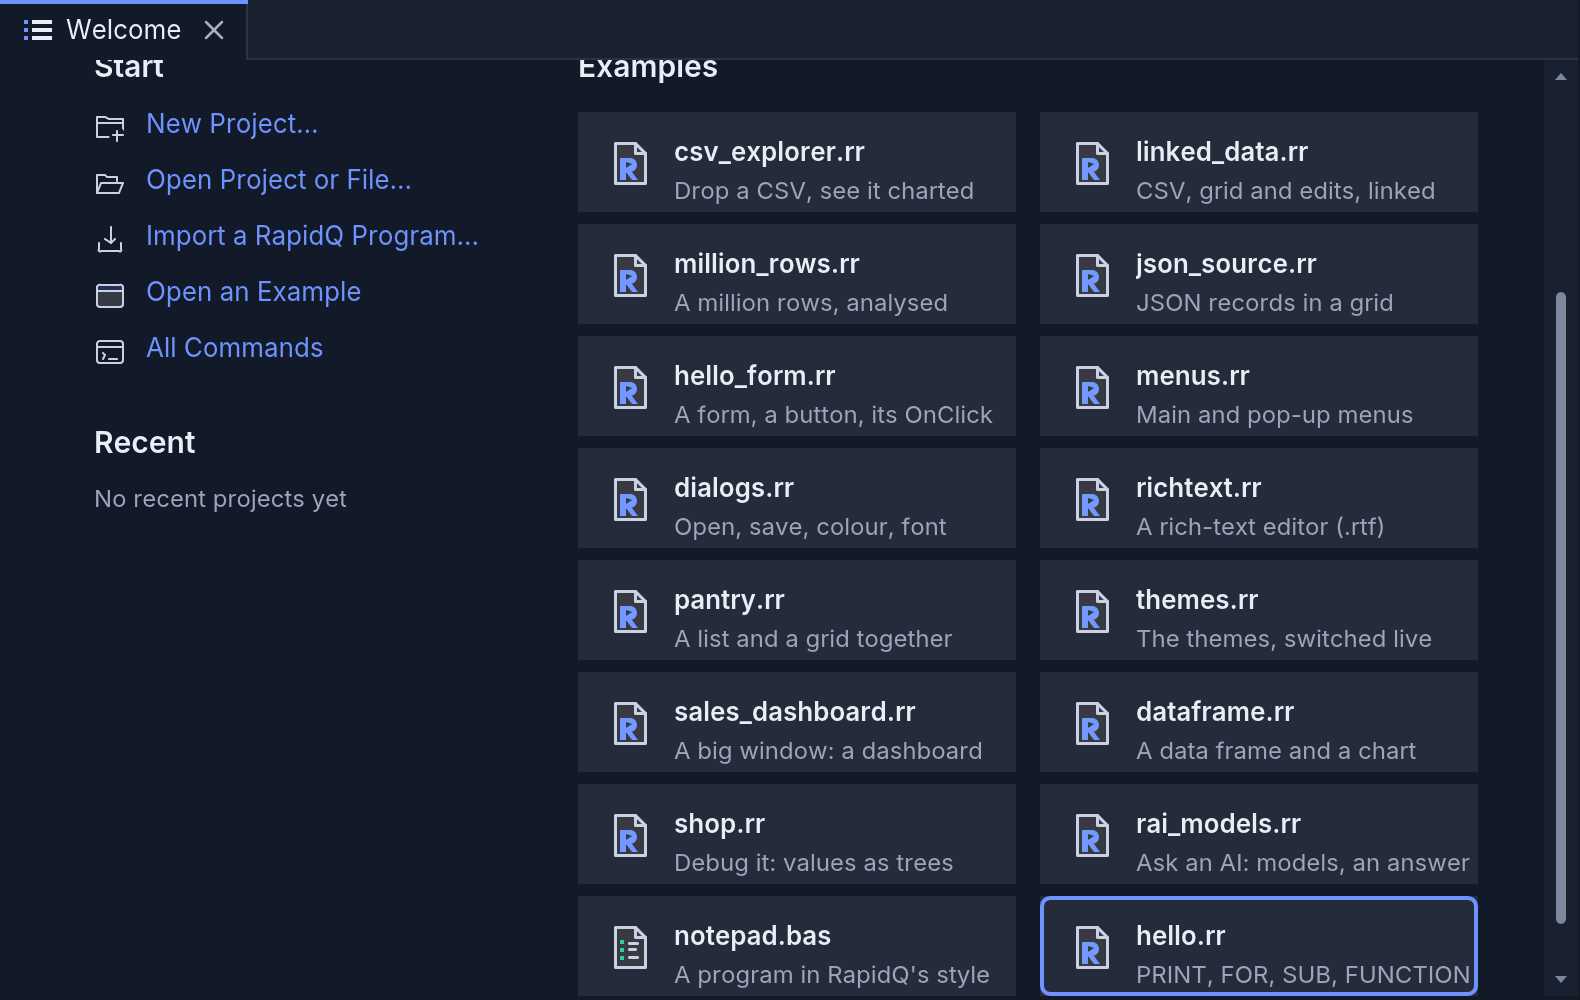
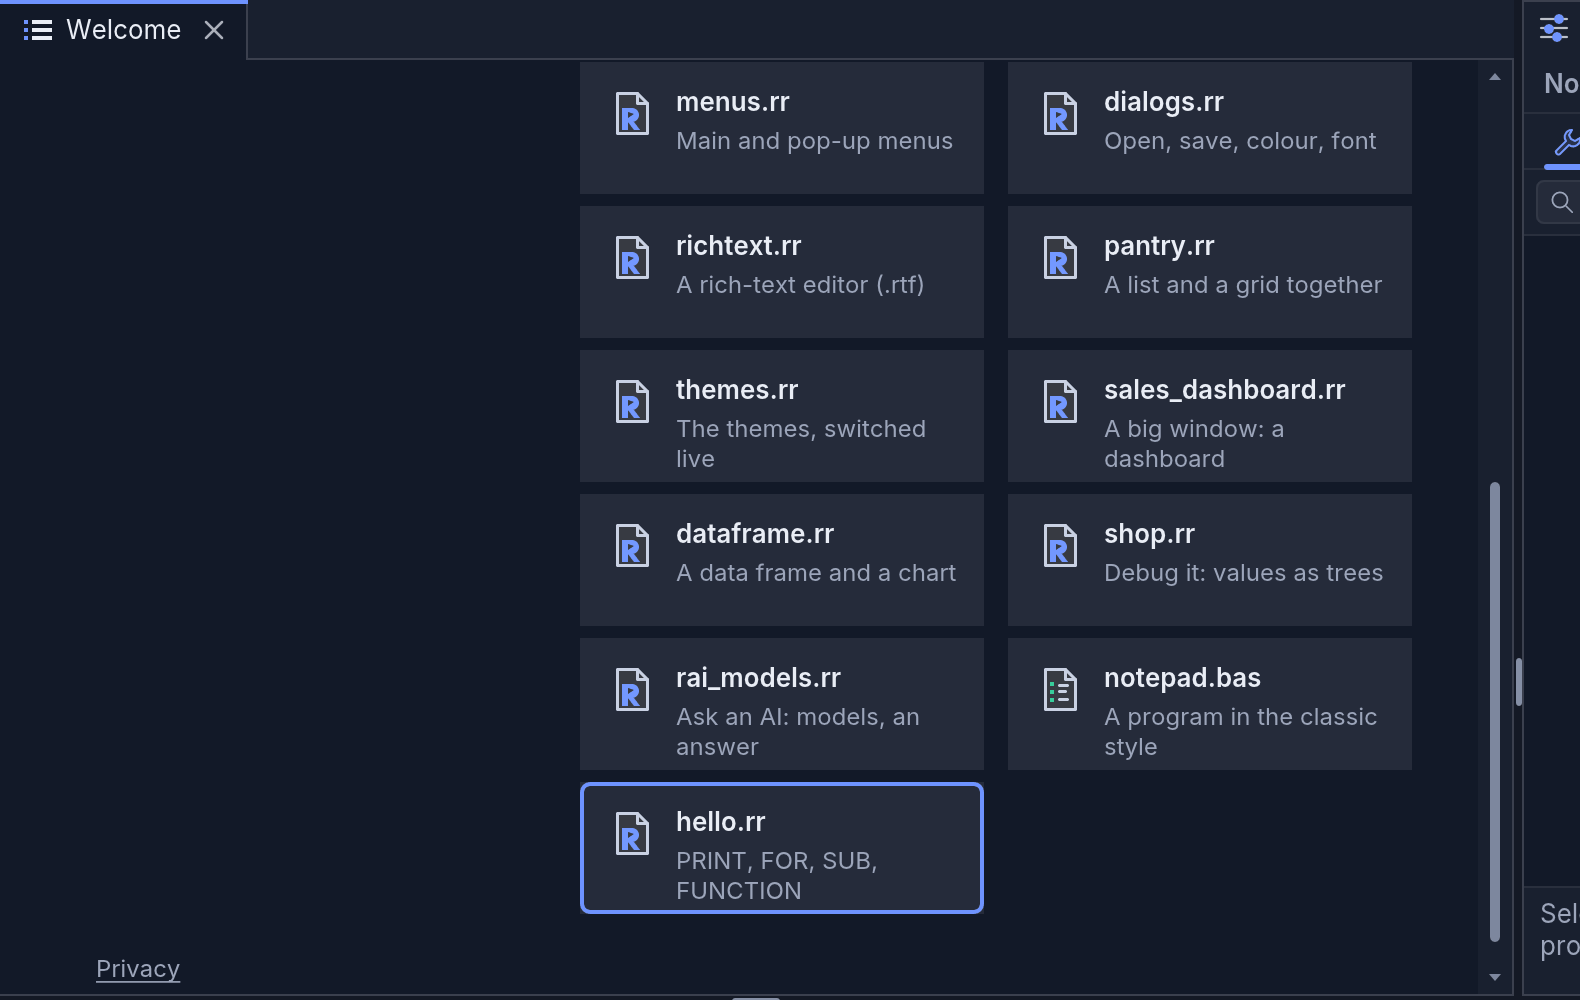
Help > Privacy Policy and a Privacy link on the Welcome page, in Studio's language, on the desktop and in the browser
- Help > Privacy Policy (help.privacy, in the command table, so in the command palette too) opens the company's policy page in the browser (a new tab, noopener/noreferrer, on the web) in the language Studio is shown in: es (any es-) privacidad, pt (any pt-) pt/privacidade, zh-Hans (zh, zh-CN ...) zh/privacy, every other language (and Traditional Chinese, which has no catalog) en/privacy. One function, PrivacyUrl (shell.inc), one opener, the existing OpenWebLink; a test step about:privacy says the page.
- The Welcome page's quiet Privacy link at its foot (one implementation for desktop and web): dim underlined text (DimFont, page.dim, no new token), a panel with TabStop, "Privacy policy" for a screen reader with its description, Enter/Space/click open the policy, the page's last Tab stop (made after the cards: Tab goes in creation order), the page taller by 28 px for it and the card compression keeping room for it. The Welcome page's tab-order tests (welcome-cards-keyboard, welcome-recent-link-enter) count the extra stop.
- ide/web/index.html: a plain <a> Privacy link (target _blank, rel noopener noreferrer) in the loading fallback, there before the runtime is and when it does not start; studio.js removes it once Studio runs.
- Catalogs: the four new texts in es, pt-BR and zh-Hans (rapidr i18n studio + update), the studio.pot current; the catalogs test passes.
[…]

diff --git a/ide/web/index.html b/ide/web/index.html
@@ -42,6 +42,13 @@
   #studio-run.under { z-index: 9; }
   #studio-run iframe { display: block; width: 100%; height: 100%; border: 0; background: transparent; pointer-events: auto; }
   #studio-status { position: fixed; left: 16px; bottom: 12px; font: 12px system-ui, sans-serif; color: #888; pointer-events: none; }
+  /* the privacy policy, plain HTML, there before the runtime is (and when it
+     does not start): Studio's own Welcome page and Help menu take over once
+     it is up, and this link goes (studio.js) */
+  #studio-fallback { position: fixed; right: 16px; bottom: 12px; font: 12px system-ui, sans-serif; }
+  #studio-fallback a { color: #a8a8a8; text-decoration: underline; }
+  #studio-fallback a:focus-visible { outline: 2px solid #19c6e6; outline-offset: 2px; }
+  @media (prefers-color-scheme: light) { #studio-fallback a { color: #4d4d4d; } }
   /* Studio quit (File > Exit): the page says so, and opens it again */
   #studio-closed { position: fixed; inset: 0; display: none; align-items: center; justify-content: center; font: 14px system-ui, sans-serif; color: #e6e6e6; }
   #studio-closed.shown { display: flex; }
@@ -57,6 +64,7 @@
 </head>
 <body>
 <div id="studio-status">Loading RapidR Studio…</div>
+<div id="studio-fallback"><a href="https://rutainternet.company/en/privacy" target="_blank" rel="noopener noreferrer">Privacy</a></div>
 <div id="studio-closed" role="dialog" aria-labelledby="studio-closed-title">
   <div>
     <img src="ide/assets/rapidr-studio.svg" alt="">

diff --git a/ide/web/studio.js b/ide/web/studio.js
@@ -65,6 +65,9 @@ async function main() {
     window.RAPIDR_FILE_REMOVED = forgetFile;
   }
   say("");
+  // (Studio's Welcome page and Help menu have the privacy link from here)
+  const fallback = document.getElementById("studio-fallback");
+  if (fallback) fallback.remove();
   rt.rapidr_run_bc(new Uint8Array(bytes));
   // (File > Exit: Studio's program ended — the page says so, and a button
   // opens Studio again, as a reload does)

diff --git a/CHANGELOG.md b/CHANGELOG.md
@@ -10,6 +10,7 @@ project uses [Semantic Versioning](https://semver.org/). Planned work lives in
 ## [2.123.1] - 2026-11-08 (Preview 6.1)
 
 ### Added
+- **Help > Privacy Policy, and a Privacy link on the Welcome page** (RapidR Studio on the desktop and in the browser; [the manual](docs/manual/getting-started.md#the-help-menu)): the company's privacy policy page opens in the browser (a new tab on the web) in the language Studio is shown in — English, Spanish, Portuguese and Simplified Chinese each have their own page, any other language the English one. A command of the table (so in the command palette too), a quiet underlined **Privacy** link at the Welcome page's foot (the page's last Tab stop; "Privacy policy" for a screen reader), and a plain link on the web page that loads Studio, there before the runtime is. EN, ES, PT, ZH.
 - **Run > Build: the Build dialog** (RapidR Studio on the desktop; [the manual](docs/manual/build-for-every-system.md#in-rapidr-studio-run--build), design/build-dialog): four steps on a list that is also the way between them — where it runs (Windows x64, ARM64 and 32-bit, macOS Universal, Linux x64 and ARM64, the web; the first time only this computer's system), your app (name, version, author, copyright, description, website, app id, category, kind, the icon at every size; **Project > Project Options** is this same step: one form), what goes in (the data files ticked, what is left out and why, Add Files...; Advanced: the source, native code) and Build (a zip per system or everything in one, which runners download first). Every choice is saved in the project as it is made (no Cancel); a progress row per app, Esc stops and keeps nothing half-made; Done lists the zips and how to open the app the first time on each system, **Show in Finder** (File Explorer, Files). **Build Again** (Ctrl+Shift+B) builds the saved choices with no dialog, a toast at the end. More: Copy Command Line, Save All in One Zip, Help. Under 640 px one scrolling page. EN, ES, PT, ZH. RapidR's own pictures of each system's window (no logos) in the icon set. The project file keeps the choices (`[build] build_for`, `pack`, `leave_out`, `include_source`, `native`), and `rapidr build` honours `leave_out` and the data files added to the project (rapidr_project::program_files::goes_in: the dialog's list and the build's are one). `LoadIcon name, size, "disabled"` draws an icon greyed. A list box with `BorderStyle = 0` has no frame; a check box with no caption has its focus ring round its box.
 - **One standard for the Windows API: `$INCLUDE "RWin32.inc"`** ([the manual](docs/manual/windows-api.md), [rwin32_system_info.rr](examples/windows/rwin32_system_info.rr)): for years everyone who called Windows from BASIC had their own `WIN32API.INC`, the copies didn't agree, and two of them in one program clashed. RapidR now has one file for all of us, built in (no file to find, every install, Windows 7 and XP too): generated by RapidR's own tool from the Win32 API metadata Microsoft publishes, so it is complete and current — 55,710 constants, 3,675 structures and 6,506 functions of 29 DLLs —, with every structure laid out right on 64-bit and on 32-bit Windows (`$IFDEF WIN64`, now defined for every 64-bit target, the web included). The classic names are there (`MessageBox`, `GetWindowText`, `RECT`, `POINTAPI` …: 1,496 of a classic file's 1,514 functions under the same names), and the A and W ones too. A program gets only what it uses (twenty calls compile in well under a second) and **a name of its own always wins**, so an old program's own `CONST` or `DECLARE` never clashes. **Nothing changes unless you want it to**: programs with their own `WIN32API.INC` keep working as they are through RapidR's RapidQ compatibility layer; the importer keeps your file, offers `RWin32.inc` and lists every difference for the names your program uses (RapidR Studio asks after an import, `rapidr import-rapidq --rwin32` switches the copy and checks it compiles). Tried on Windows 11 (ARM64): GetTickCount, GetSystemMetrics, GetComputerName, GlobalMemoryStatusEx and GetSystemInfo through the generated declarations. If something is missing or looks wrong, tell us: the file is generated, so one fix reaches everyone.
 - **`BringToFront` and `SendToBack` on every component on a form** (RapidR's, [the manual](docs/manual/components.md#stacking-bringtofront-and-sendtoback)): a component over or under its siblings — drawn on top **and** taking their clicks where it covers them (a drawer panel opened over the workspace), its own components with it; the layout doesn't move. One rule in the UI kernel for the desktop, native builds, the interpreter and the web. Example: `examples/gui/drawer.rr`.

diff --git a/docs/manual/es/getting-started.md b/docs/manual/es/getting-started.md
@@ -391,7 +391,8 @@ interfaz en un lienzo. Mira [La web](web.md).
 En la página de bienvenida, **Ejemplos** abre un programa para ejecutar y leer;
 empieza con `hello_form.rr` y luego los ejemplos de datos. Una ventana demasiado
 baja para todos ellos se desplaza (con la rueda o con la barra); con el teclado,
-Tab y Shift+Tab van de una tarjeta a otra y a cada proyecto de **Recientes** (la
+Tab y Shift+Tab van de una tarjeta a otra, a cada proyecto de **Recientes** y, al
+final, al discreto enlace **Privacidad** del pie de la página (la
 página se desplaza hasta el que alcanzas, y un anillo lo rodea) y Enter lo abre.
 Studio se abre con el aspecto claro, oscuro o de contraste alto de tu sistema y
 lo sigue cuando lo cambias ([Temas](components.md#cuando-cambia-el-aspecto)).
@@ -413,7 +414,7 @@ el original.
 
 ![Archivo > Copiar el ejemplo otra vez del original pregunta primero: “Copy linked_data.rr again from the original?” — tus cambios a los archivos propios del ejemplo se reemplazan, los archivos que añadiste se quedan — Cancel o Copy Again](../images/examples/copy-again-question.png)
 
-![La página de bienvenida desplazada hasta sus últimas tarjetas: Shift+Tab desde el panel Proyecto llegó a hello.rr, rodeada por el anillo, lista para Enter](../images/themes/studio-welcome-last-card.png)
+![La página de bienvenida desplazada hasta sus últimas tarjetas: Shift+Tab desde el panel Proyecto llegó primero al enlace Privacidad y luego a hello.rr, rodeada por el anillo, lista para Enter; el enlace Privacidad se ve en el pie de la página](../images/themes/studio-welcome-last-card.png)
 
 ### Paneles y divisores
 
@@ -463,6 +464,25 @@ paneles que divide, y dice dónde está como un porcentaje (“45%”).
 Mientras un programa se ejecuta con el depurador, Studio muestra los paneles de
 depuración junto a Salida; cuando termina, el panel inferior recupera todo el
 ancho ([Depuración: dos disposiciones](debugging.md#dos-disposiciones-edición-y-depuración)).
+
+### El menú Ayuda
+
+**Ayuda > Ayuda de RapidR** (F1) abre el panel de ayuda, **Ejemplos** la página de
+bienvenida y **Acerca de RapidR Studio** dice qué versión de RapidR tienes y con qué
+licencia viene.
+
+**Ayuda > Política de privacidad** abre en tu navegador la política de privacidad
+de Ruta Internet, la empresa detrás de RapidR, en el idioma en que Studio se
+muestra: inglés, español, portugués y chino (simplificado) tienen cada uno su
+propia página, y cualquier otro idioma recibe la inglesa. En la web se abre en una
+pestaña nueva y Studio se queda donde está. El mismo enlace es un discreto enlace
+**Privacidad** al pie de la página de bienvenida (una parada de Tab: Enter o la
+barra espaciadora lo abren; un lector de pantalla lo llama «Política de
+privacidad») y, en la web, un enlace simple en la página que carga Studio, que está
+ahí antes de que Studio mismo se cargue. Como todo comando, está en la paleta de
+comandos (Ctrl+Shift+P): escribe *privacidad*.
+
+![Ayuda abierto en Studio en español: Ayuda de RapidR (F1), Ejemplos, y luego Acerca de RapidR Studio y Política de privacidad](../images/help-menu/help-menu-es.png)
 
 ## Adónde ir después
 

diff --git a/docs/manual/getting-started.md b/docs/manual/getting-started.md
@@ -362,7 +362,8 @@ in a canvas. See [The web](web.md).
 On the Welcome page, **Examples** opens a program to run and read; start with
 `hello_form.rr`, then the data examples. A window too short for all of
 them scrolls (the wheel, the bar); from the keyboard, Tab and Shift+Tab
-go from card to card and to each project under **Recent** — the page
+go from card to card, to each project under **Recent** and, last, to the
+quiet **Privacy** link at the page's foot — the page
 scrolls to the one you reach, a ring shows round it — and Enter opens it. Studio opens in your system's light, dark or high-contrast look
 and follows it when you switch ([Themes](components.md#when-the-look-changes)).
 
@@ -382,7 +383,7 @@ is kept in the browser (the page's store), over the original.
 
 ![File > Copy Example Again from the Original asks first: "Copy linked_data.rr again from the original?" — your changes to the example's own files are replaced, files you added stay — Cancel or Copy Again](images/examples/copy-again-question.png)
 
-![The Welcome page scrolled to its last cards: Shift+Tab from the Project pane reached hello.rr, ringed, ready for Enter](images/themes/studio-welcome-last-card.png)
+![The Welcome page scrolled to its last cards: Shift+Tab from the Project pane reached the Privacy link first, then hello.rr, ringed, ready for Enter; the Privacy link shows at the page's foot](images/themes/studio-welcome-last-card.png)
 
 ### Panes and splitters
 
@@ -429,6 +430,28 @@ it divides, and says where it is as a percentage ("45%").
 While a program runs with the debugger, Studio shows the debug panes beside
 Output; when it ends, the bottom panel gets the whole width again
 ([Debugging: two layouts](debugging.md#two-layouts-editing-and-debugging)).
+
+### The Help menu
+
+**Help > RapidR Help** (F1) opens the Help pane, **Examples** the Welcome
+page and **About RapidR Studio** says which version of RapidR you have and
+under which licence it comes.
+
+**Help > Privacy Policy** opens Ruta Internet's privacy policy, the company
+behind RapidR, in your browser, in the language Studio is shown in: English,
+Spanish, Portuguese and Chinese (Simplified) each have their own page, any
+other language gets the English one. On the web it opens in a new tab and
+Studio stays where it is. The same link is a quiet **Privacy** link at the
+foot of the Welcome page (a Tab stop: Enter or Space opens it; a screen
+reader calls it "Privacy policy") and, on the web, a plain link on the page
+that loads Studio, there before Studio itself is. Like every command it is in
+the command palette (Ctrl+Shift+P): type *privacy*.
+
+![Help open in Studio: RapidR Help (F1), Examples, then About RapidR Studio and Privacy Policy](images/help-menu/help-menu.png)
+
+![The Welcome page's foot in the light look: a dim, underlined Privacy link at the left, under Recent](images/help-menu/welcome-privacy-light.png)
+
+![The same in the dark look](images/help-menu/welcome-privacy-dark.png)
 
 ## Where next
 
